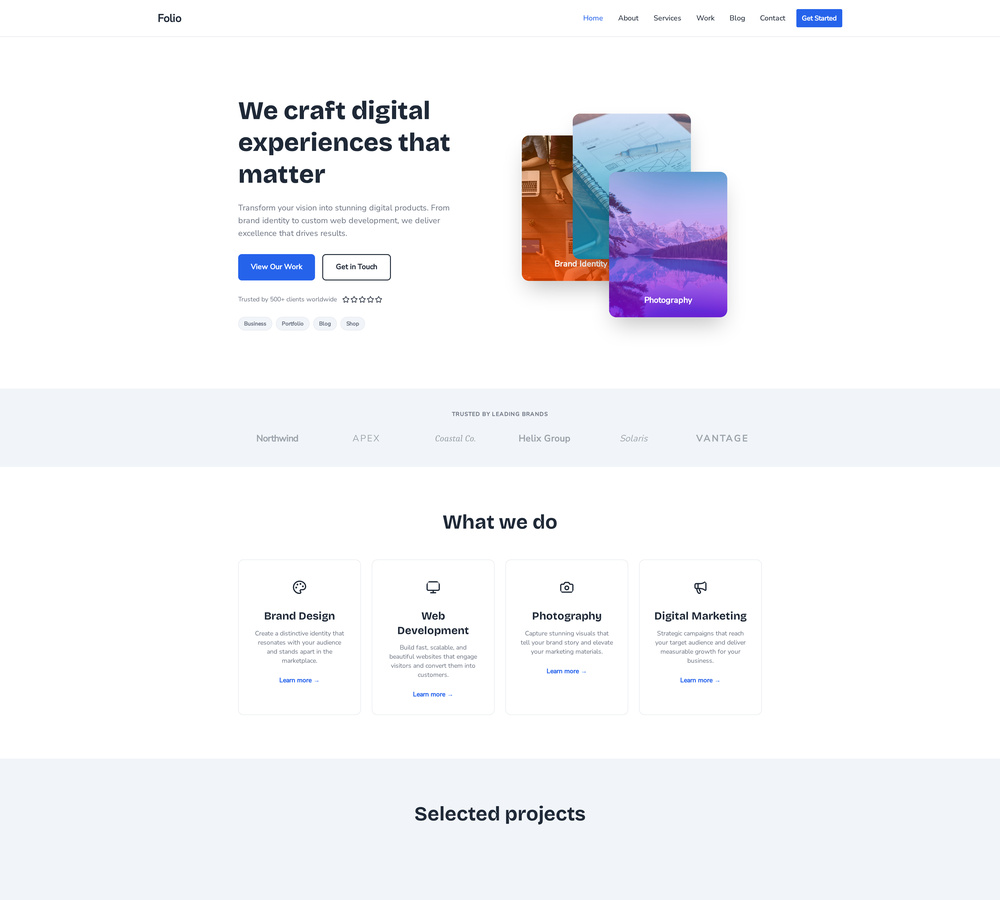
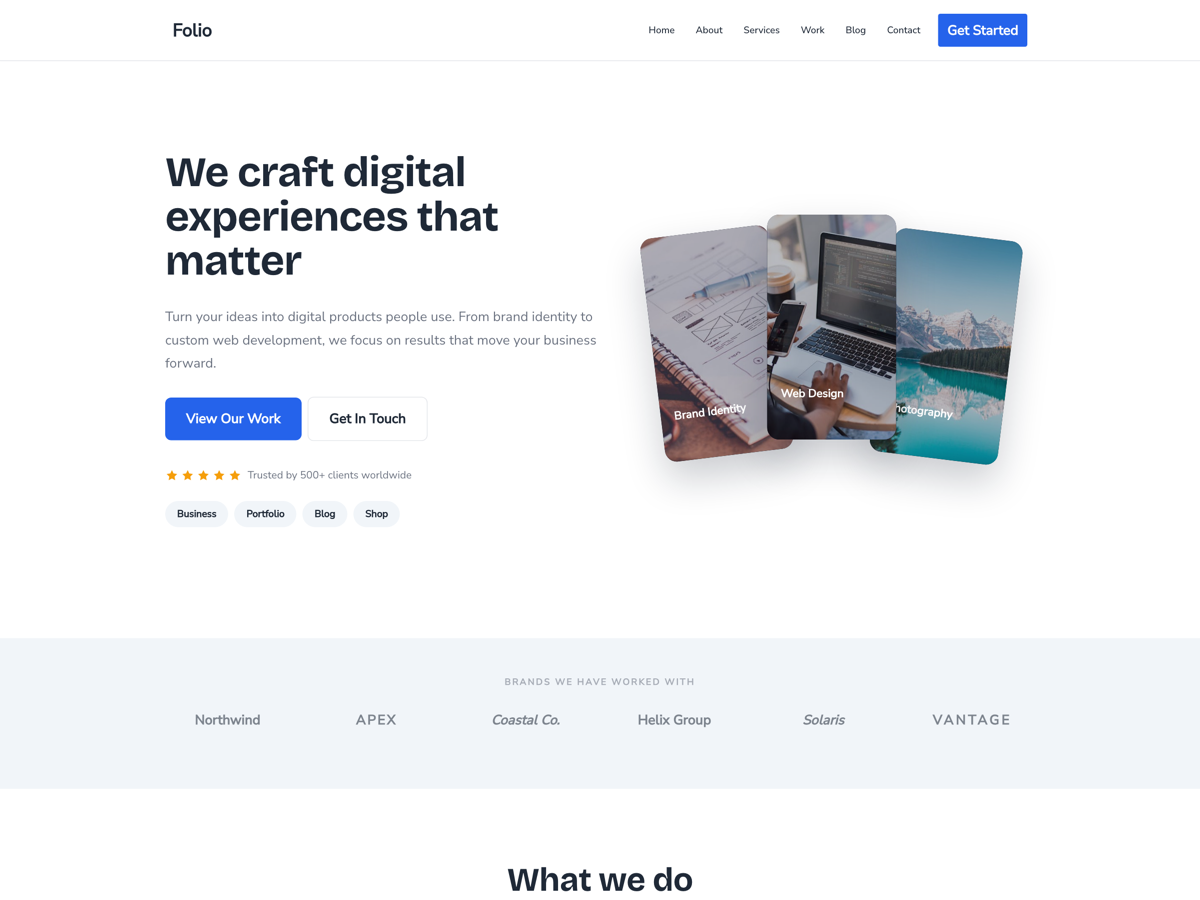
fix: add return type for PHPStan + 4:3 theme screenshot
- Add ': void' to Starter_Content::apply_starter_custom_css() (PHPStan)
- Regenerate screenshot.png at 1200x900 (4:3) from the rendered starter
  content to satisfy Theme Check's required aspect ratio

diff --git a/inc/compatibility/starter_content.php b/inc/compatibility/starter_content.php
@@ -131,7 +131,7 @@ class Starter_Content {
 	 *
 	 * Scoped under .folio-* classes, so it only affects the starter pages.
 	 */
-	private function apply_starter_custom_css() {
+	private function apply_starter_custom_css(): void {
 		if ( ! function_exists( 'wp_update_custom_css_post' ) ) {
 			return;
 		}